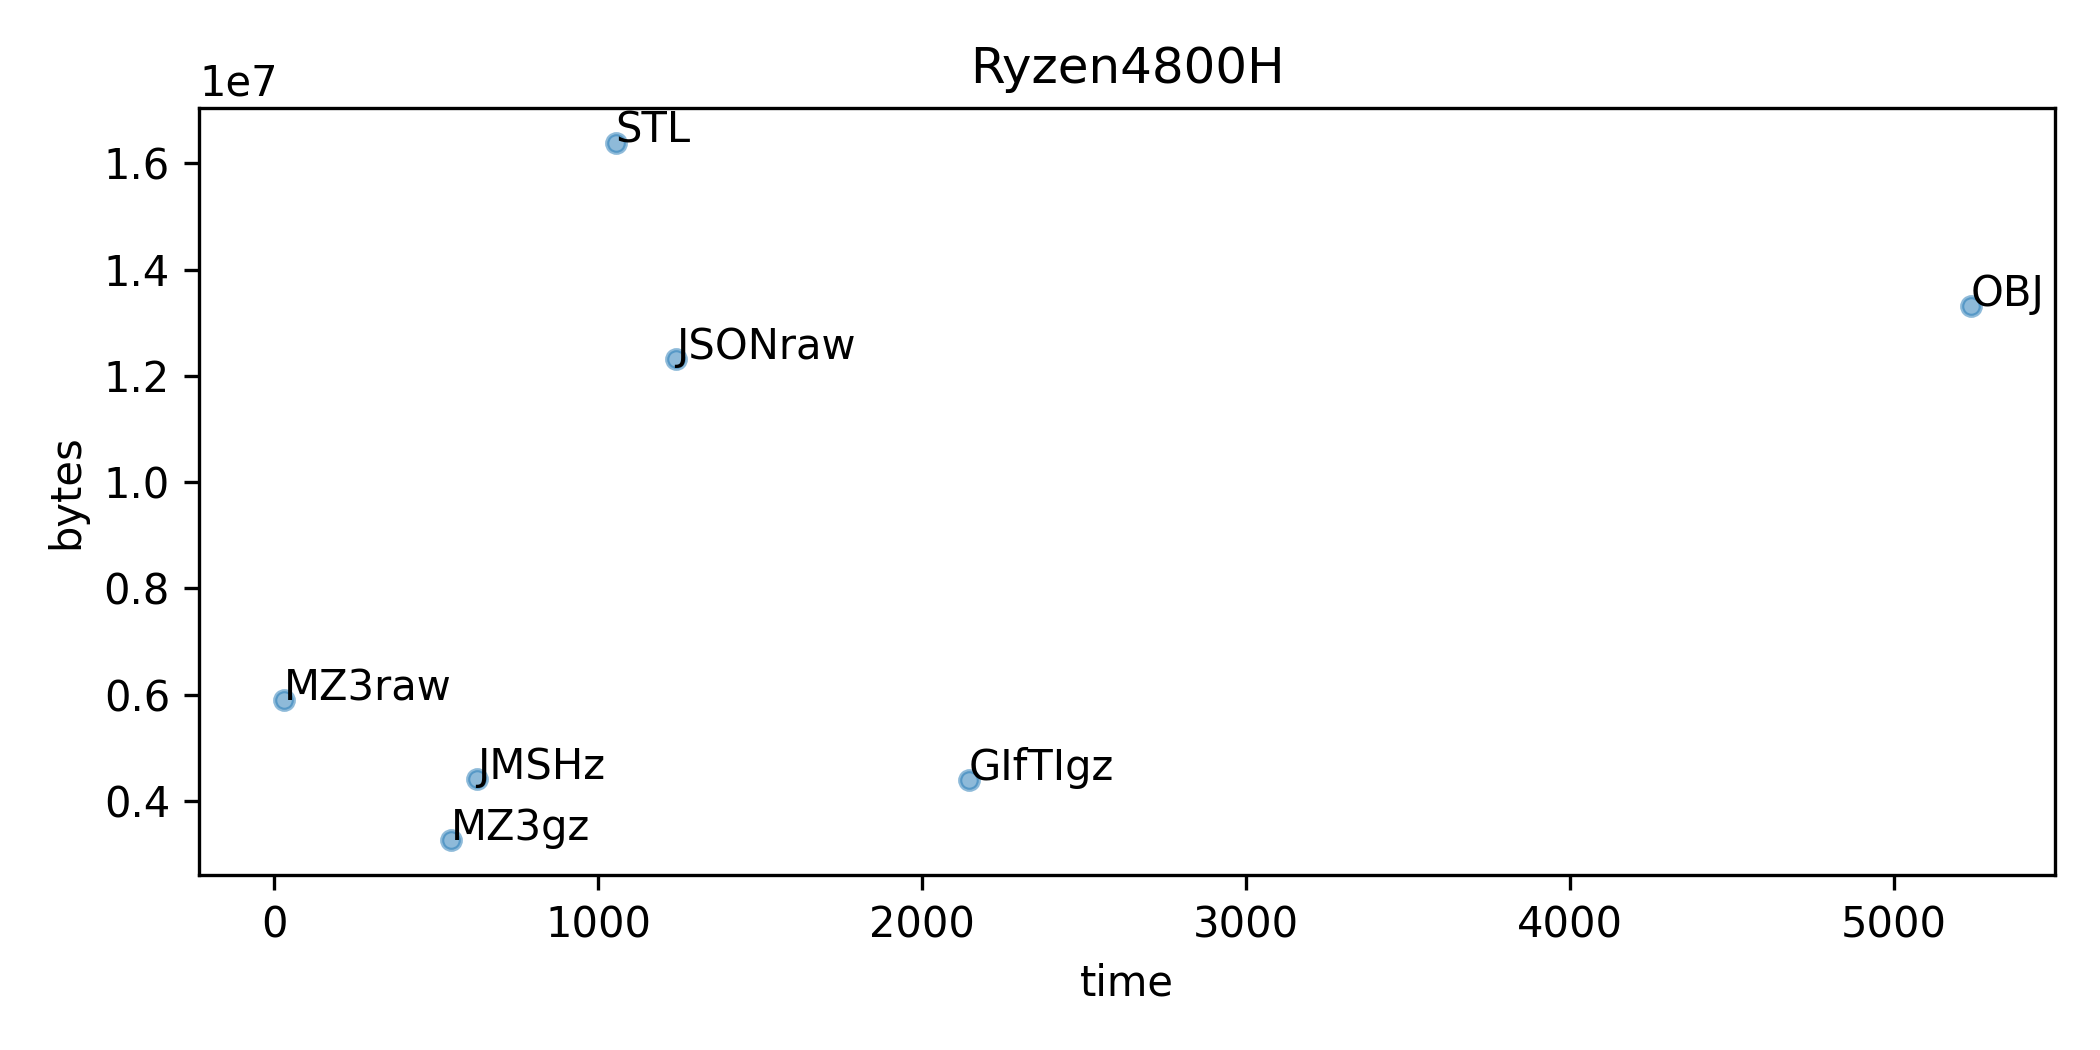
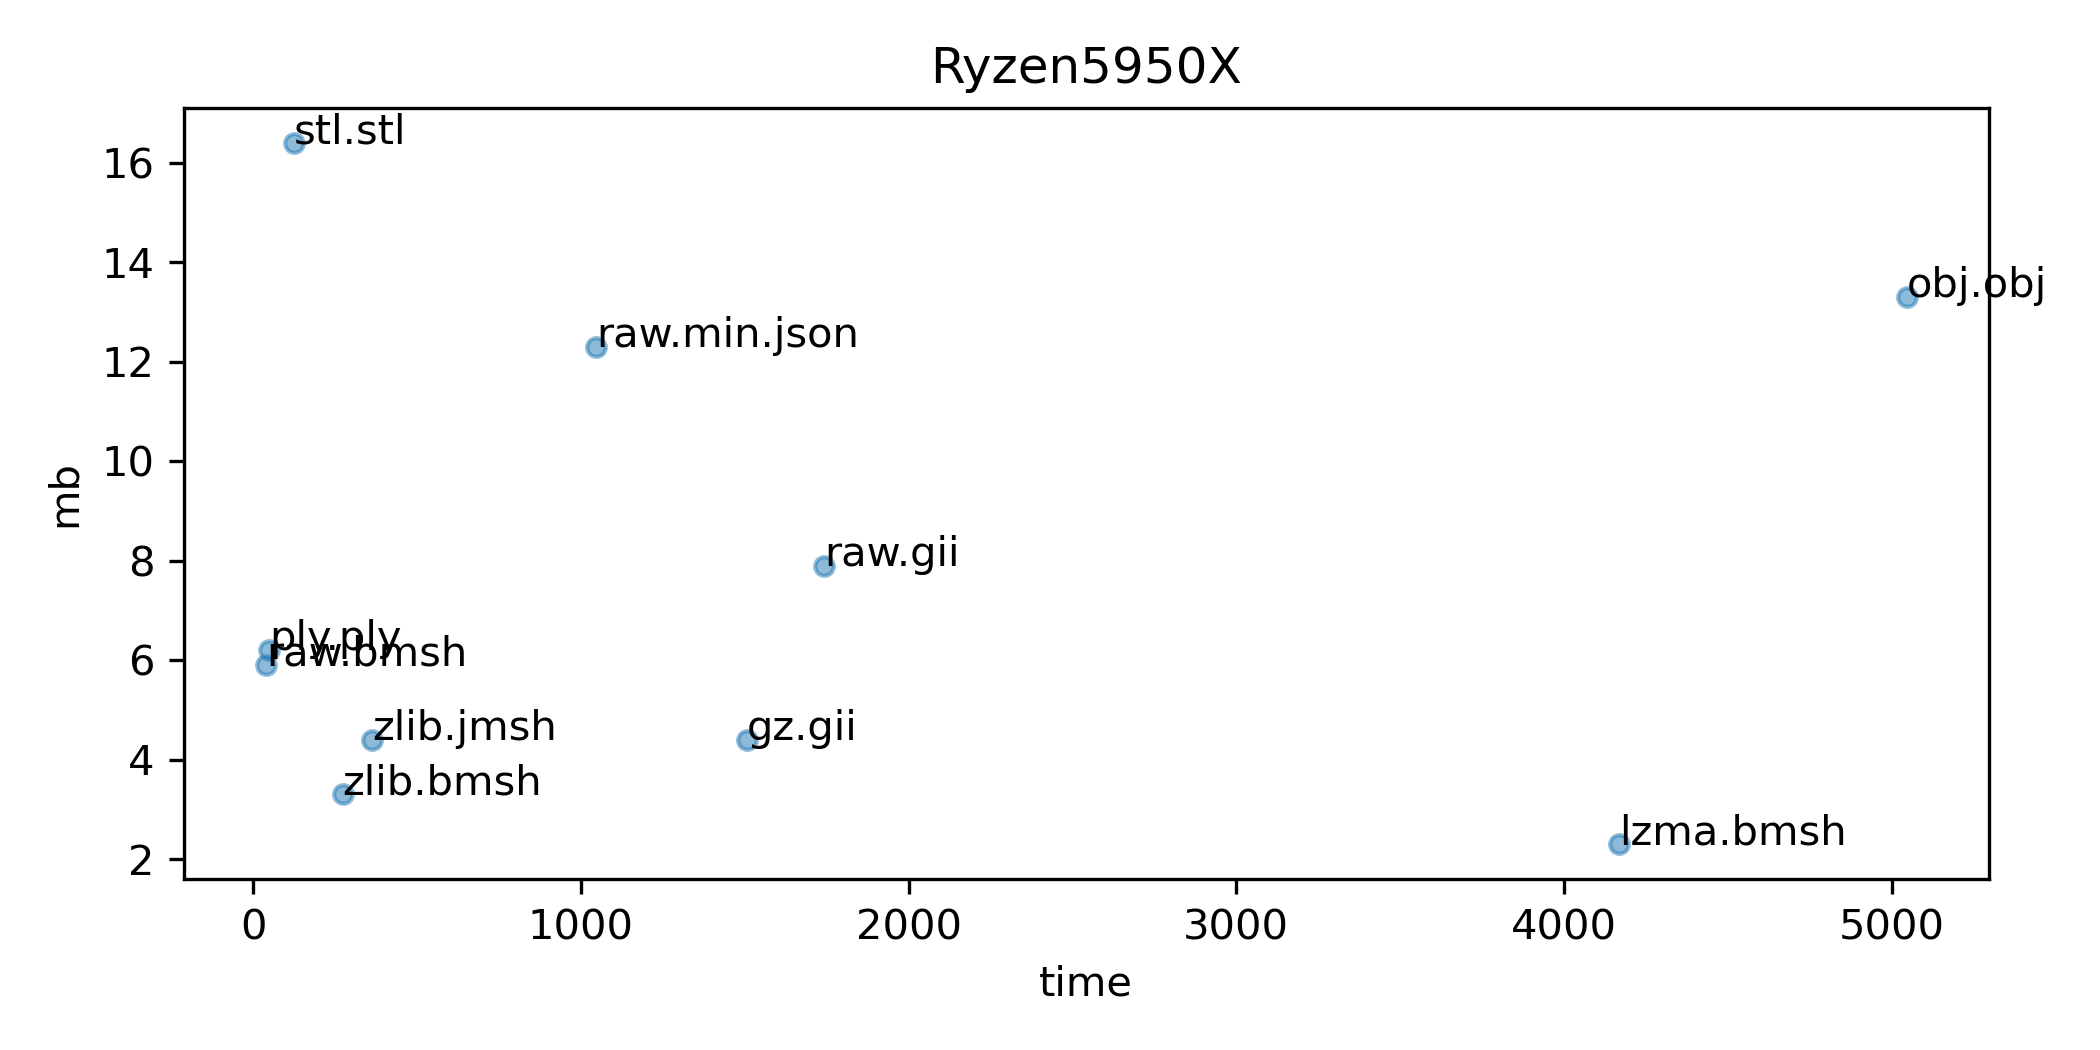
Update plots

diff --git a/graphRyzen.py b/graphRyzen.py
@@ -14,18 +14,18 @@ plt.rcParams["figure.autolayout"] = True
 # Create a dataframe
 df = pd.DataFrame(
    dict(
-      time=[2143, 545, 28, 5236, 1053, 625, 1239],
-      bytes=[4384750, 3259141, 5898280, 13307997, 16384084,4405604,12325881],
-      points=['GIfTIgz', 'MZ3gz', 'MZ3raw', 'OBJ', 'STL', 'JMSHz','JSONraw']
+      time=[4168, 273, 1507, 364, 39, 50, 1742, 1047, 5046, 124],
+      mb=[2.3, 3.3, 4.4, 4.4, 5.9, 6.2, 7.9, 12.3, 13.3, 16.4],
+      points=['lzma.bmsh', 'zlib.bmsh', 'gz.gii', 'zlib.jmsh', 'raw.bmsh', 'ply.ply', 'raw.gii', 'raw.min.json', 'obj.obj', 'stl.stl']
    )
 )
 
 # Scatter plot
-ax = df.plot.scatter(title='Ryzen4800H', x='time', y='bytes', alpha=0.5)
+ax = df.plot.scatter(title='Ryzen5950X', x='time', y='mb', alpha=0.5)
 
 # Annotate each data point
 for i, txt in enumerate(df.points):
-   ax.annotate(txt, (df.time.iat[i], df.bytes.iat[i]))
+   ax.annotate(txt, (df.time.iat[i], df.mb.iat[i]))
 
 #plt.show()
 plt.savefig('Ryzen.png', dpi=300)

diff --git a/matlab/meshtest.m b/matlab/meshtest.m
@@ -22,24 +22,6 @@ function res=meshtest(doplot)
 %
 % output:
 %     result: a table with 3 columns: File, Size(byte) and Runtime(ms)
-%
-% example:
-%     meshtest
-%     ans =
-%           File          Size(byte)    Runtime(ms)
-%     ________________    __________    ___________
-% 
-%     {'gz.gii'      }    4.3848e+06      495.11
-%     {'gz.mz3'      }    3.2591e+06      385.92
-%     {'raw.mz3'     }    5.8983e+06      295.86
-%     {'obj.obj'     }    1.3308e+07      5944.6
-%     {'stl.stl'     }    1.6384e+07      1102.9
-%     {'zlib.jmsh'   }    4.4056e+06      678.14
-%     {'zlib.bmsh'   }     3.259e+06      318.13
-%     {'raw.min.json'}    1.2326e+07      3612.4
-%     {'raw.bmsh'    }    5.8989e+06      150.75
-%     {'lzma.bmsh'   }    2.2953e+06      1360.5
-%
 
 path='../meshes';
 files={'obj.obj', 'gz.gii',  'raw.gii', 'ply.ply', 'gz.mz3', 'raw.mz3',  'stl.stl', 'zlib.jmsh', 'zlib.bmsh', 'raw.min.json', 'raw.bmsh', 'lzma.bmsh'};

diff --git a/README.md b/README.md
@@ -12,8 +12,7 @@ A few notes on the formats:
  7. [json](http://json.org) is a minimized plain JSON file using [JMesh](https://github.com/NeuroJSON/jmesh/blob/master/JMesh_specification.md) annotations without compression
  8. [PLY](https://en.wikipedia.org/wiki/PLY_(file_format)) is a classic and elegant format that includes a text header and either binary or text data. It can store non-triangular meshes. This flexibility comes with a penalty in terms of speed and file size. 
  
-The plots below show performance on an Apple M1 (15w passively cooled MacBook Air) running macOS and a AMD Ryzen 7 4800H (45w) running Ubuntu 20.04. The trends are extremely similar, with the exception of STL (which was consistently dramatically faster on macOS). To avoid overlapping labels, the plots omit the bmsh format as these formats are very similar to the mz3.
-![M1 Performance](M1.png)
+The plots below show performance on a AMD Ryzen 5950X running Ubuntu 21.10. 
 
 ![Ryzen Performance](Ryzen.png)
 
@@ -22,22 +21,41 @@ The plots below show performance on an Apple M1 (15w passively cooled MacBook Ai
 This is a simple node.js function that you can replicate on your own computer:
 
 ```
-$ npm install fflate gifti-reader-js atob pako buffer lzma-purejs bjd numjs
-$ git clone https://github.com/neurolabusc/MeshFormatsJS.git
-$ cd MeshFormatsJS
-$ node ./meshtest.js
+git clone https://github.com/neurolabusc/MeshFormatsJS
+cd MeshFormatsJS/
+npm install fflate gifti-reader-js atob pako buffer lzma-purejs bjd numjs
+node ./meshtest.js
 
-obj.obj	Size	13307997	Time	3781
-gz.gii	Size	4384750	Time	1693
-raw.gii	Size	7866016	Time	1783
-ply.ply	Size	6226140	Time	59
-gz.mz3	Size	3259141	Time	361
-raw.mz3	Size	5898280	Time	13
-stl.stl	Size	16384084	Time	112
-zlib.jmsh	Size	4405604	Time	465
-zlib.bmsh	Size	3259049	Time	355
-raw.min.json	Size	12325881	Time	855
-raw.bmsh	Size	5898902	Time	11
-lzma.bmsh	Size	2295259	Time	4746
-
+obj.obj Size 13307997 Time 5046
+gz.gii Size 4384750 Time 1507
+raw.gii Size 7866016 Time 1742
+ply.ply Size 6226140 Time 50
+gz.mz3 Size 3259141 Time 256
+raw.mz3 Size 5898280 Time 16
+stl.stl Size 16384084 Time 124
+zlib.jmsh Size 4405604 Time 364
+zlib.bmsh Size 3259049 Time 273
+raw.min.json Size 12325881 Time 1047
+raw.bmsh Size 5898902 Time 39
+lzma.bmsh Size 2295259 Time 4168
 ```
+
+## JavaScript, Python and Matlab
+
+The `python` and `matlab` folders allow you to evaluate the performance of different languages. Be aware that the implementations vary between some of the source code, so one should be wary of making strong conclusions. Here are the performance times for each of these languages on a desktop Ryzen 5950X computer. The formats are ranked by file size. Ideally, one wants smale files that open quickly. A natural trade off is the uncompressed files are larger but are read more quickly. Note that all meshes are read from a local disk, whereas if data had to be downloaded the larger files would be relatively slower depending on internet bandwidth:
+
+| Format       | Size | JS   | Python | Matlab |
+|--------------|------|------|--------|--------|
+| lzma.bmsh    | 2.3  | 4168 |        | 1041   |
+| zlib.bmsh    | 3.3  | 273  | 136    | 228    |
+| gz.mz3       | 3.3  | 256  | 177    | 291    |
+| gz.gii       | 4.4  | 1507 | 211    | 403    |
+| zlib.jmsh    | 4.4  | 364  | 190    | 470    |
+| raw.mz3      | 5.9  | 16   | 4      | 35     |
+| raw.bmsh     | 5.9  | 39   | 6633   | 86     |
+| ply.ply      | 6.2  | 50   | 645    | 3030   |
+| raw.gii      | 7.9  | 1742 | 141    | 410    |
+| raw.min.json | 12.3 | 1047 | 253    | 2330   |
+| obj.obj      | 13.3 | 5046 | 7333   | 3740   |
+| stl.stl      | 16.4 | 124  | 130    | 1128   |
+
